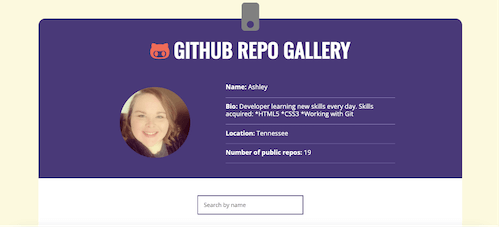
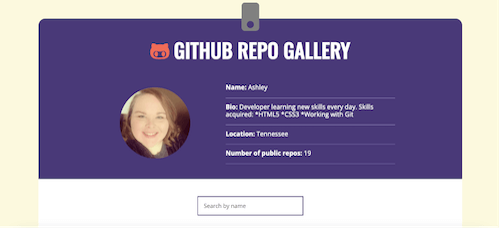
Edited header nav styles and mobile styles

diff --git a/css/style.css b/css/style.css
@@ -103,31 +103,45 @@ body {
 /*Header Styles*/
 
 header {
+  display: flex;
+  justify-content: center;
+  text-align: center;
+  flex-flow: row wrap;
   background-color: #152A3E;
+  padding-top: 30px;
+  padding-bottom: 60px;
 }
 
 header .content-wrapper {
   display: flex;
   justify-content: center;
   align-items: center;
+  width: 90%;
 }
 
 header nav {
-  
   font-family: 'Montseratt', sans-serif;
-  text-transform: uppercase;
-  font-weight: bold;
-  width: 90%;
   margin-bottom: 60px;
 }
 
 header nav ul {
+  width: 90%;
   display: flex;
-  justify-content: center;
-  align-items: center;
-  width: 100%; 
+  justify-content: space-between;
+  gap: 15px;
   list-style-type: none;
-  gap: 15px;;
+  margin: 0;
+  padding: 0;
+}
+
+header nav li {
+  font-size: 1rem;
+  text-transform: uppercase;
+  font-weight: bold;
+  line-height: 1.5;
+  width: 98%;
+  margin-bottom: 20px;
+
 }
 
 header nav ul li a{
@@ -157,20 +171,16 @@ header .home-title {
   color: #F7E8E8;
   text-decoration: none;
   overflow: auto;
-  width: 95%;
+  width: 93%;
 }
 
 header .home-title h1 {
-  display: flex;
-  justify-content: center;
   text-align: center;
   margin-top: 30px;
   margin-bottom: 25px;
 }
 
 header .home-title h2 {
-  display: flex;
-  justify-content: center;
   text-align: center;
   font-weight: 300;
   margin-bottom: 35px;
@@ -184,7 +194,6 @@ header .home-title h2 {
   color: #152A3E;
   font-family: 'Lora', sans-serif;
   margin-bottom: 20px;
-  width: 100%;
 }
 
 #about .content-wrapper {
@@ -197,7 +206,7 @@ header .home-title h2 {
 #about .content-wrapper h2 {
   text-align: center;
   font-size: 1.5rem;
-  width: 90%;
+  width: 96%;
 }
 
 #about .biography {
@@ -205,15 +214,17 @@ header .home-title h2 {
   flex-direction: column;
   justify-content: center;
   align-items: center;
-  width: 90%;
+  width: 93%;
 }
 
 #about .biography figure {
-  width: 60%;
+  width: 75%;
 }
 
 #about .biography figure img {
-  width: 90%;
+  width: 93%;
+  position: relative;
+  right: -23px;
 }
 
 #about .bio-content h3 {
@@ -222,38 +233,37 @@ header .home-title h2 {
 }
 
 #about .bio-content {
-  display: flex;
-  flex-direction: column;
-  justify-content: center;
-  align-items: center;
-  width: 90%;
+  text-align: left;
+  width: 93%;
   margin-bottom: 5px;
+  position: relative;
+  right: -32px;
+}
+
+#about span {
+  text-align: center;
+  width: 90%;
 }
 
 /*Skills Styles*/
 
 #skills {
-  display: flex;
-  justify-content: center;
-  align-items: center;
   text-align: center;
-  flex-flow: column wrap;
   font-family: 'Lora', sans-serif;
   color: #F7E8E8;
 }
 
 #skills .skills-header {
-  display: flex;
-  justify-content: center;
   text-align: center;
   color: #f0f0f0;
 }
 
 #skills .content-wrapper {
   display: flex;
-  flex-flow: column wrap;
+  flex-flow: column nowrap;
   justify-content: center;
   align-items: center;
+  width: 95%;
 }
 
 #skills h3 {
@@ -266,6 +276,7 @@ header .home-title h2 {
   text-transform: uppercase;
   text-decoration: none;
   font-weight: 300;
+  width: 95%;
 }
 
 .dev-skills li {
@@ -273,16 +284,18 @@ header .home-title h2 {
   justify-content: center;
   align-items: center;
   color: #152A3E;
+  text-align: center;
   text-decoration: none;
   background: #B4C7D9;
   border: solid #152A3E;
   width: 275px;
   height: 40px;
+  gap: 2px;
 }
 
 #skills .tools {
   display: flex;
-  flex-flow: column wrap;
+  flex-flow: column nowrap;
   justify-content: center;
   align-items: center;
   text-decoration: none;
@@ -297,12 +310,15 @@ header .home-title h2 {
   text-transform: uppercase;
   text-decoration: none;
   font-weight: 300;
+  width: 95%;
 }
 
 #skills .tools li {
   display: flex;
   justify-content: center;
   align-items: center;
+  gap: 2px;
+  text-align: center;
   color: #152A3E;
   text-decoration: none;
   background: #B4C7D9;
@@ -315,9 +331,8 @@ header .home-title h2 {
 /*Projects Styles*/
 
 #projects {
-  display: flex;
-  flex-flow: column wrap;
-  justify-content: center;
+  display: block;
+  unicode-bidi: isolate;
   background: #F7E8E8;
   background-size: cover;
   width: 100%;
@@ -331,16 +346,18 @@ header .home-title h2 {
 
 .portfolio-wrapper {
   display: flex;
-  flex-flow: column wrap;
+  flex-direction: column;
   justify-content: center;
+  align-items: stretch;
   width: 95%;
 }
 
 .home-portfolio-piece {
   display: flex;
-  flex-flow: column;
+  flex-direction: column;
   justify-content: center;
   align-items: center;
+  width: 100%;
 }
 
 .home-portfolio-piece figure {
@@ -348,7 +365,7 @@ header .home-title h2 {
 }
 
 .home-portfolio-piece img {
-  width: 90%;
+  width: 95%;
 }
 
 .home-portfolio-piece h3 {
@@ -360,6 +377,7 @@ header .home-title h2 {
   line-height: 1.5rem;
   margin-bottom: 10px;
   font-family: 'Montseratt', sans-serif;
+  width: 90%;
 }
 
 p {
@@ -390,8 +408,8 @@ span {
   font-family: 'Monseratt', sans-serif;
   text-align: center;
   font-weight: bold;
-  margin-top: 10px;
-  margin-bottom: 15px;
+  margin-top: 5px;
+  margin-bottom: 10px;
   padding: 4px 4px;
 }
 
@@ -405,7 +423,6 @@ span {
 footer { 
   background: #f0f0f0;
   background-size: cover;
-  width: 100%;
 }
 
 footer #contact {
@@ -447,7 +464,7 @@ fieldset {
   flex-flow: column nowrap;
   justify-content: center;
   align-items: center;
-  width: 100%;
+  width: 90%;
   text-align: center;
   font-family: 'Montseratt', sans-serif;
   font-size: 18px;
